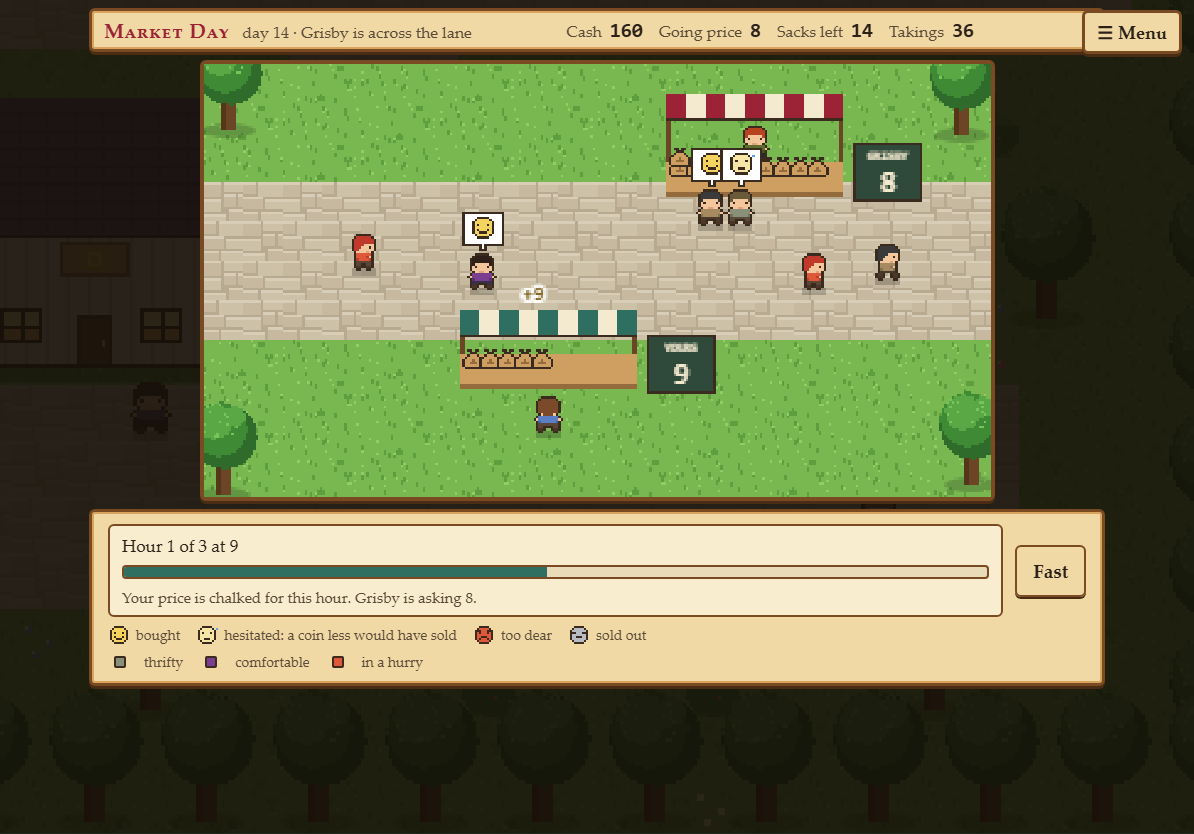
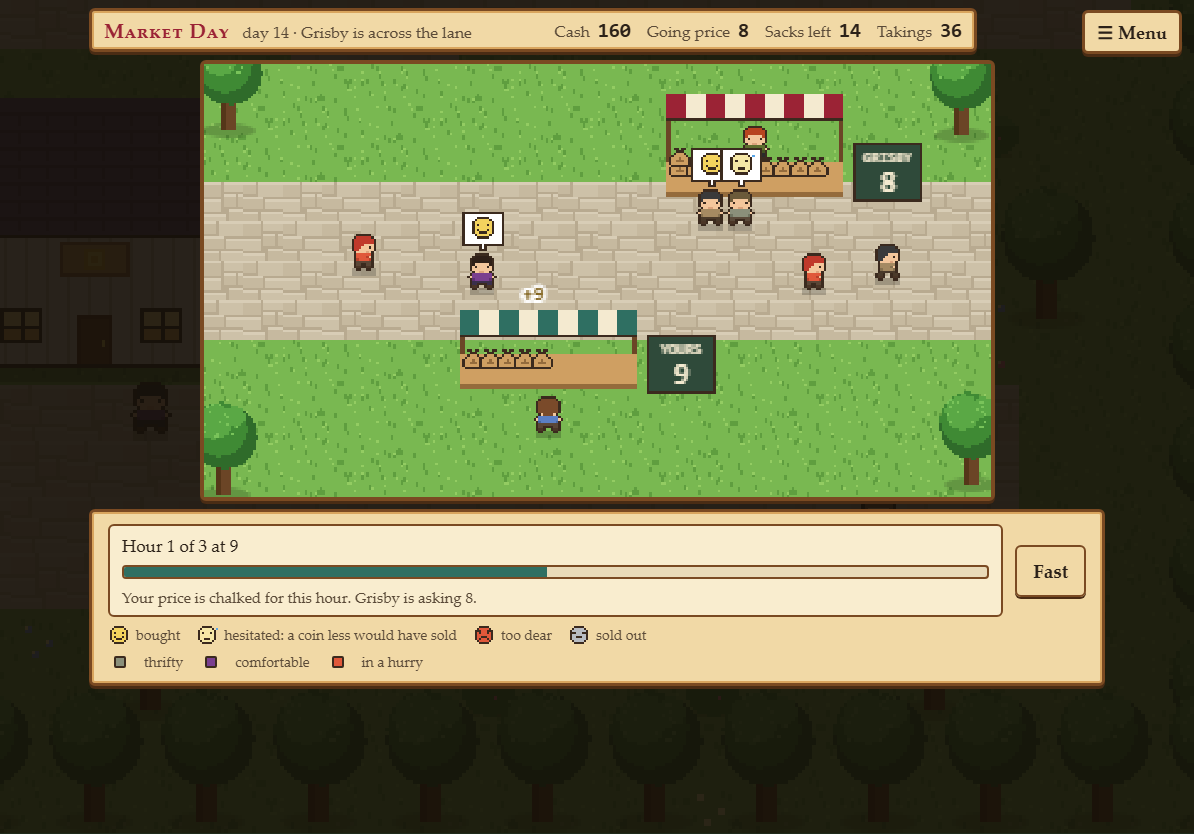
WS7 step 4: critic round 1 fixes (no replay after quit, honest baseline, Grisby wording, same-condition fit, earned transcript credit)

Changed region(s): [[0.4648, 0.0, 0.9296, 0.0935], [0.7127, 0.1559, 0.7747, 0.2182], [0.5578, 0.4053, 0.5888, 0.4365]]

diff --git a/market.js b/market.js
@@ -67,11 +67,14 @@
       ev.push(Object.assign({}, v, d));
     });
     const units = ev.reduce((a, e) => a + (e.to === "me" ? e.qty : 0), 0), lost = ev.filter(e => e.to === "grisby" && e.react === "bought").reduce((a, e) => a + e.qty, 0);
+    // 'stolen' = sales Grisby made to villagers who would have paid YOUR price (reserve >= yours): the ones he really cost you.
+    // The rest of 'toGrisby' bought from him only because he was cheaper than they would have paid you for, so you never had them.
+    const stolen = ev.filter(e => e.to === "grisby" && e.react === "bought" && e.reserve >= price).reduce((a, e) => a + Math.min(e.qty, 1 + (price <= e.reserve - 2 ? 1 : 0)), 0);
     const rec = { hour: f.hour, price, grisbyPrice: g, stockStart: stock0, units, revenue: units * price, gross: units * (price - f.cost), soldOutAt: ev.find(e => e.react === "soldout") ? ev.findIndex(e => e.react === "soldout") : -1,
-      toGrisby: lost, segSeen, segBought, events: ev, counts: ev.reduce((c, e) => (c[e.react] = (c[e.react] || 0) + 1, c), {}) };
+      toGrisby: lost, stolen, segSeen, segBought, events: ev, counts: ev.reduce((c, e) => (c[e.react] = (c[e.react] || 0) + 1, c), {}) };
     f.hours.push(rec); f.hour++; return rec;
   }
-  const totals = f => ({ units: f.hours.reduce((a, h) => a + h.units, 0), revenue: f.hours.reduce((a, h) => a + h.revenue, 0), gross: f.hours.reduce((a, h) => a + h.gross, 0), unsold: f.stock, toGrisby: f.hours.reduce((a, h) => a + h.toGrisby, 0) });
+  const totals = f => ({ units: f.hours.reduce((a, h) => a + h.units, 0), revenue: f.hours.reduce((a, h) => a + h.revenue, 0), gross: f.hours.reduce((a, h) => a + h.gross, 0), unsold: f.stock, toGrisby: f.hours.reduce((a, h) => a + h.toGrisby, 0), stolen: f.hours.reduce((a, h) => a + h.stolen, 0) });
   // What the afternoon would earn if you kept ONE price all afternoon (the model's own answer: used for Maud's bet and for the oracle in the tests)
   function flat(s, price, stock) { const f = newFair(s, { stock }); for (let h = 0; h < CFG.hours; h++) playHour(f, price); return totals(f); }
   function bestFlat(s, stock) { let best = null; for (let p = 1; p <= 20; p++) { const t = flat(s, p, stock); if (!best || t.gross > best.t.gross) best = { price: p, t }; } return best; }
@@ -84,12 +87,14 @@
     S.post(s, "cogs", `Cost of the ${h.units} sacks sold at the fair`, { cogs: c, inv: -c });
     s.sacks -= h.units; s.week.revenue += v; s.week.cogs += c; s.week.sacksSold += h.units;
   }
-  function commit(s, f) { // post every unposted hour, remember the fair (for the demand curve), and credit the transcript
+  // Post every unposted hour and (re)write the fair's record. The UI calls this after EVERY hour, so a fair is "had" from its first posted hour:
+  // quitting and reloading mid-afternoon cannot replay the same villagers for more takings (the saved game already has the sales and the record).
+  function commit(s, f) {
     f.hours.forEach(h => { if (!h.posted) { commitHour(s, f, h); h.posted = true; } });
-    const m = s.market || (s.market = { fairs: [], named: false, bets: 0, wins: 0 });
-    const t = totals(f); const rec = { day: f.day, market: f.market, grisby: f.grisby, stock0: f.stock0, units: t.units, revenue: t.revenue, gross: t.gross, toGrisby: t.toGrisby,
+    const m = s.market || (s.market = { fairs: [], named: false, bet: null });
+    const t = totals(f); const rec = { day: f.day, market: f.market, grisby: f.grisby, stock0: f.stock0, units: t.units, revenue: t.revenue, gross: t.gross, toGrisby: t.toGrisby, stolen: t.stolen,
       points: f.hours.map(h => ({ price: h.price, units: h.units, short: h.soldOutAt >= 0 })) };
-    if (!m.fairs.some(x => x.day === f.day)) m.fairs.push(rec);
+    const i = m.fairs.findIndex(x => x.day === f.day); if (i >= 0) m.fairs[i] = rec; else m.fairs.push(rec);
     return t;
   }
   const history = s => (s.market && s.market.fairs) || [];
@@ -221,7 +226,7 @@ if (typeof document !== "undefined") (function (root) {
     st = { phase: "setup", price: S.marketPrice(s.day), bring: Math.min(barn, Math.max(spare, Math.min(barn, 12)), 18), barn, committed, spare, f: null, rec: null, hourT: 0, fast: false, evs: null, bet: null, last: 0, cash0: s.bal.cash };
     document.body.classList.add("mk-open");
     const el = document.createElement("div"); el.id = "mkt"; el.innerHTML = `<div class="mk-card"><div class="mk-top" id="mk-top"></div><div class="mk-sceneBox" id="mk-sceneBox"><canvas id="mk-cv" width="${LW}" height="${LH}"></canvas></div><div class="mk-panel" id="mk-panel"></div></div>`;
-    $("wrap").appendChild(el); layout(); render(); loop.t = 0; requestAnimationFrame(loop);
+    $("wrap").appendChild(el); layout(); render(); loop.t = 0; if (!loop.on) { loop.on = true; requestAnimationFrame(loop); }
   }
   function close() {
     const el = root_(); if (el) el.remove(); document.body.classList.remove("mk-open"); st = null;
@@ -254,7 +259,7 @@ if (typeof document !== "undefined") (function (root) {
       p.innerHTML = `<div class="mk-row"><div class="mk-box"><h3>Sacks to bring</h3>${stepper("bring", st.bring, "sacks", "Sacks")}<div class="mk-note">${s.sacks} in the barn.${st.committed ? ` Open orders still need <b>${st.committed}</b>.` : ""}</div>${over ? `<div class="mk-note bad" id="mk-warn">That dips into sacks you promised to customers.</div>` : ""}</div>
         <div class="mk-box board"><h3>Chalk board: a sack of wheat</h3>${stepper("price", st.price, "coins", "Price")}<div class="mk-note" id="mk-margin">${marginLine(st.price)}</div></div></div>
         <div class="mk-row"><div class="mk-help">${s.market && s.market.fairs.length ? "" : `Eight villagers walk by each hour. You can change your price once an hour. Watch the faces.`}${M.grisbyIn(s.day) ? ` <b>Grisby</b> watches your board and sets his price after you.` : ""}</div>
-        <div class="mk-actions">${btn("mk-leave", "Not today", "alt")}${btn("mk-open", "Open the stall", "gold")}</div></div>${legend()}`;
+        <div class="mk-actions">${btn("mk-leave", "Not today", "alt")}${btn("mk-open", "Open the stall", "gold")}</div></div>`;
     } else if (st.phase === "bet") {
       const q = st.betQ; p.innerHTML = `<div class="mk-maud"><canvas id="mk-maud" width="16" height="16"></canvas><div><div class="mk-nm">Maud the reeve</div><div class="mk-say">Two coin says I know what one more coin on your board does. Say you chalk <b>${st.price + 1}</b> instead of <b>${st.price}</b> for the whole afternoon, with your ${st.bring} sacks${M.grisbyIn(s.day) ? " and Grisby watching" : ""}. Will your takings <b>rise</b>, <b>fall</b>, or <b>stay the same</b>?</div></div></div>
         <div class="mk-actions wide">${btn("mk-b-up", "Takings rise", "", 'data-bet="up"')}${btn("mk-b-down", "Takings fall", "", 'data-bet="down"')}${btn("mk-b-same", "Stay the same", "", 'data-bet="same"')}${btn("mk-b-no", "No bet", "alt", 'data-bet="no"')}</div>`;
@@ -263,9 +268,9 @@ if (typeof document !== "undefined") (function (root) {
       const r = st.f.hours[st.f.hours.length - 1], hnext = st.f.hour + 1, c = r.counts;
       const nudge = r.soldOutAt >= 0 ? `You ran out of sacks partway through the hour: the buyers after that walked away.` : (c.hesitated || 0) >= 2 ? `${c.hesitated} villagers hesitated. A coin less may have won them.` : (c.dear || 0) >= 4 ? `Most of the crowd called it too dear.` : (c.bought || 0) >= 7 ? `Nearly everyone bought. Was your price too low?` : "";
       p.innerHTML = `<div class="mk-row"><div class="mk-box"><h3>Hour ${r.hour + 1} of ${CFG().hours}: ${r.units} sacks at ${r.price}</h3><div class="mk-faces">${["bought", "hesitated", "dear", "soldout"].filter(k => c[k]).map(k => `<span>${iconHTML(k, 26)} <b>${c[k]}</b></span>`).join("")}</div>
-        <div class="mk-note">${r.grisbyPrice != null ? `Grisby held ${r.grisbyPrice}${r.toGrisby ? `; he took ${r.toGrisby} sacks of sales` : ""}. ` : ""}${nudge}</div></div>
+        <div class="mk-note">${r.grisbyPrice != null ? `Grisby asked ${r.grisbyPrice}${r.stolen ? `; ${r.stolen} sack${r.stolen === 1 ? "" : "s"} went to him that would have been yours` : r.price > st.f.market ? "; he didn't take anyone who'd have paid you" : ""}. ` : ""}${nudge}</div></div>
         <div class="mk-box board"><h3>Price for hour ${hnext}</h3>${stepper("price", st.price, "coins", "Price")}<div class="mk-note" id="mk-margin">${marginLine(st.price)}</div></div></div>
-        <div class="mk-row"><div class="mk-help">${M.grisbyIn(s.day) ? "Grisby will see your new price before the hour starts." : ""}</div><div class="mk-actions">${btn("mk-fast", st.fast ? "Fast: on" : "Fast", "alt")}${btn("mk-next", `Open hour ${hnext}`, "gold")}</div></div>${legend()}`;
+        <div class="mk-row"><div class="mk-help">${M.grisbyIn(s.day) ? "Grisby will see your new price before the hour starts." : ""}</div><div class="mk-actions">${btn("mk-fast", st.fast ? "Fast: on (tap to turn off)" : "Fast: off", "alt")}${btn("mk-next", `Open hour ${hnext}`, "gold")}</div></div>${legend()}`;
     } else if (st.phase === "walk") {
       p.innerHTML = `<div class="mk-row"><div class="mk-box"><h3>Hour ${st.f.hour} of ${CFG().hours} at ${st.rec.price}</h3><div class="mk-prog"><i id="mk-prog"></i></div><div class="mk-note">Your price is chalked for this hour. ${st.f.grisby ? `Grisby is asking ${st.rec.grisbyPrice}.` : ""}</div></div>
         <div class="mk-actions">${btn("mk-fast", "Fast", "alt")}</div></div>${legend()}`;
@@ -278,7 +283,7 @@ if (typeof document !== "undefined") (function (root) {
     p.querySelectorAll("[data-st]").forEach(b => b.onclick = () => { const k = b.dataset.st, d = k.endsWith("+") ? 1 : -1, w = k.slice(0, -1);
       if (w === "price") st.price = Math.max(1, Math.min(M.CFG.maxPrice, st.price + d)); else st.bring = Math.max(1, Math.min(G.s.sacks, st.bring + d)); upd(); });
     const on = (id, fn) => { const e = $(id); if (e) e.onclick = fn; };
-    on("mk-leave", close); on("mk-open", startAfternoon); on("mk-next", nextHour); on("mk-fast", () => { st.fast = true; if (st.phase === "walk") finishHour(); else render(); });
+    on("mk-leave", close); on("mk-open", startAfternoon); on("mk-next", nextHour); on("mk-fast", () => { if (st.phase === "walk") { st.fast = true; finishHour(); } else { st.fast = !st.fast; render(); } }); // in the pause, Fast toggles whether the next hours play instantly
     on("mk-done", close);
     p.querySelectorAll("[data-bet]").forEach(b => b.onclick = () => placeBet(b.dataset.bet));
   }
@@ -302,7 +307,7 @@ if (typeof document !== "undefined") (function (root) {
   function nextHour() { beginHour(); }
   function finishHour() { // the hour is over: its sales go on the books
     if (st.phase !== "walk") return; const s = G.s, rec = st.rec;
-    st.hourT = 1; G.act(() => { M.commitHour(s, st.f, rec); rec.posted = true; return { ok: true }; });
+    st.hourT = 1; G.act(() => { M.commit(s, st.f); return { ok: true }; }); // posts this hour and records the fair, so a reload can't replay it
     if (st.f.hour >= CFG().hours) { st.phase = "tally"; finishFair(); } else st.phase = "pause";
     render(); drawFrame(0);
   }
@@ -312,9 +317,9 @@ if (typeof document !== "undefined") (function (root) {
     st.tally = { t, newBest: prev.length > 0 && t.gross > best, firstFair: prev.length === 0 };
     const prices = new Set(f.hours.map(h => h.price)).size, bet = s.market.bet && s.market.bet.day === s.day ? s.market.bet : null;
     G.act(() => { // earn the ideas: seeing a demand curve, segments, and a rival
-      s.uses.push({ id: "segments", day: s.day, well: true });
-      if (prices >= 2) s.uses.push({ id: "demand", day: s.day, well: true });
-      if (f.grisby) s.uses.push({ id: "competitor", day: s.day, well: true });
+      // evidence of doing, not of showing up: only an actual experiment counts (a second price; a price above the going price, where Grisby answers)
+      if (prices >= 2) { s.uses.push({ id: "segments", day: s.day, well: true }); s.uses.push({ id: "demand", day: s.day, well: true }); }
+      if (f.grisby && f.hours.some(h => h.price > f.market)) s.uses.push({ id: "competitor", day: s.day, well: true });
       if (bet && bet.guess && bet.guess === bet.answer) { S.wagerWin(s, 2, "Maud's bet on your fair price"); if (root.Transcript) root.Transcript.master("demand", s.day); }
       return { ok: true }; });
     top();
@@ -322,18 +327,19 @@ if (typeof document !== "undefined") (function (root) {
 
   // ---------- the tally ----------
   function chartSVG(s, f) {
-    const past = M.history(s).filter(x => x.day !== f.day).flatMap(x => x.points.map(p => Object.assign({ old: true }, p)));
+    const past = M.history(s).filter(x => x.day !== f.day).flatMap(x => x.points.map(p => Object.assign({ old: true, grisby: x.grisby }, p)));
     const cur = f.hours.map((h, i) => ({ price: h.price, units: h.units, short: h.soldOutAt >= 0, n: i + 1, take: h.revenue })), all = past.concat(cur);
     let lo = Math.min(...all.map(p => p.price)) - 1, hi = Math.max(...all.map(p => p.price)) + 1; if (hi - lo < 4) { lo -= 1; hi += 1; } lo = Math.max(0, lo);
     const ymax = Math.max(10, Math.ceil((Math.max(...all.map(p => p.units)) + 1) / 2) * 2), W = 460, H = 270, L = 52, R = 16, Tp = 16, B = 44;
     const X = p => L + (p - lo) / (hi - lo) * (W - L - R), Y = u => H - B - u / ymax * (H - B - Tp);
     let g = ""; for (let p = Math.ceil(lo); p <= hi; p++) g += `<line x1="${X(p)}" x2="${X(p)}" y1="${Tp}" y2="${H - B}" class="gl"/><text x="${X(p)}" y="${H - B + 17}" class="tk" text-anchor="middle">${p}</text>`;
     for (let u = 0; u <= ymax; u += 2) g += `<line x1="${L}" x2="${W - R}" y1="${Y(u)}" y2="${Y(u)}" class="gl"/><text x="${L - 8}" y="${Y(u) + 4}" class="tk" text-anchor="end">${u}</text>`;
-    const fit = M.demandFit(all); let line = "";
-    if (fit && fit.slope < 0) { const x1 = lo + .3, x2 = hi - .3, y1 = Math.max(0, fit.icpt + fit.slope * x1), y2 = Math.max(0, fit.icpt + fit.slope * x2); line = `<line x1="${X(x1)}" y1="${Y(y1)}" x2="${X(x2)}" y2="${Y(y2)}" class="fit"/>`; }
+    // the line is fitted only through hours played under the same conditions as this fair (with or without Grisby), and drawn only across the prices you actually tried
+    const same = all.filter(p => !p.old || p.grisby === f.grisby), fit = M.demandFit(same), usable = same.filter(p => !p.short); let line = "";
+    if (fit && fit.slope < 0) { const x1 = Math.min(...usable.map(p => p.price)), x2 = Math.max(...usable.map(p => p.price)), cl = v => Math.max(0, Math.min(ymax, v)); line = `<line x1="${X(x1)}" y1="${Y(cl(fit.icpt + fit.slope * x1))}" x2="${X(x2)}" y2="${Y(cl(fit.icpt + fit.slope * x2))}" class="fit"/>`; }
     const stack = {}; // hours that landed on the same spot stack their labels instead of printing over each other
     const dots = all.map(p => { const key = p.price + "," + p.units, lvl = p.old ? 0 : (stack[key] = (stack[key] == null ? 0 : stack[key] + 1)), dx = lvl ? (lvl % 2 ? 1 : -1) * 22 * Math.ceil(lvl / 2) : 0; // a little sideways jitter so same-spot hours stay visible
-      return `<circle cx="${X(p.price) + dx}" cy="${Y(p.units)}" r="${p.old ? 6 : 9}" class="${p.old ? "old" : "cur"}${p.short ? " short" : ""}"/>` + (p.old ? "" : `<text x="${X(p.price) + dx}" y="${Y(p.units) - 14}" class="lb" text-anchor="middle">hour ${p.n}</text><text x="${X(p.price) + dx}" y="${Y(p.units) + 4}" class="in" text-anchor="middle">${p.n}</text>`); }).join("");
+      return `<circle cx="${X(p.price) + dx}" cy="${Y(p.units)}" r="${p.old ? 6 : 9}" class="${p.old ? "old" : "cur"}${p.short ? " short" : ""}"/>` + (p.old ? "" : `<text x="${X(p.price) + dx + 14}" y="${Y(p.units) + 4}" class="lb" text-anchor="start">hour ${p.n}</text><text x="${X(p.price) + dx}" y="${Y(p.units) + 4}" class="in" text-anchor="middle">${p.n}</text>`); }).join("");
     return `<svg viewBox="0 0 ${W} ${H}" class="mk-chart" role="img" aria-label="Price against sacks sold per hour">${g}${line}${dots}<text x="${(W + L) / 2}" y="${H - 6}" class="ax" text-anchor="middle">Price per sack (coins)</text><text transform="translate(14 ${(H - B) / 2 + Tp}) rotate(-90)" class="ax" text-anchor="middle">Sacks sold in the hour</text></svg>`;
   }
   function tally(p) {
@@ -346,10 +352,11 @@ if (typeof document !== "undefined") (function (root) {
     const nameLine = st.nameLine, betLine = bet && bet.guess ? `<div class="mk-maudline ${bet.guess === bet.answer ? "win" : "lose"}"><b>Maud's bet:</b> you said takings would <b>${bet.guess}</b>. At ${bet.price} all afternoon the model gives ${bet.now} takings; at ${bet.price + 1}, ${bet.then}. Takings ${bet.answer === "up" ? "rise" : bet.answer === "down" ? "fall" : "stay the same"}. ${bet.guess === bet.answer ? "You won: 2 coin back, and 2 more." : "You lose the 2 coin."}<br><i>A price rise wins when the sacks you lose are fewer than the extra coin on each sack that stays.</i></div>` : "";
     const seg = ["thrifty", "comfortable", "hurry"].filter(k => segSeen[k]).map(k => `<li><span class="sw ${k}"></span> ${M.SEG_NAMES[k]}: ${segBought[k] || 0} of ${segSeen[k]} bought</li>`).join("");
     const left = `<h2>The takings</h2><table class="mk-tab"><tr><th>Hour</th><th>Price</th><th>Sacks sold</th><th>Takings</th><th>Gross profit</th></tr>${rows}<tr class="tot"><td>Total</td><td></td><td class="num">${t.units}</td><td class="num">${t.revenue}</td><td class="num">${t.gross}</td></tr></table>
-      <div class="mk-note">Gross profit is what you keep after the sacks' cost (${cost} each). ${t.unsold ? `<b>${t.unsold} sacks unsold</b>: back to the barn.` : "<b>Sold out.</b>"} ${f.grisby ? `Grisby took ${t.toGrisby} sacks of sales from you.` : ""}</div>
+      <div class="mk-note">Gross profit is what you keep after the sacks' cost (${cost} each). ${t.unsold ? `<b>${t.unsold} sacks unsold</b>: back to the barn.` : "<b>Sold out.</b>"} ${f.grisby ? (t.stolen ? `Grisby took ${t.stolen} sack${t.stolen === 1 ? "" : "s"} from villagers who would have paid your price.` : t.toGrisby ? `Grisby sold ${t.toGrisby} sack${t.toGrisby === 1 ? "" : "s"}, but only to villagers your price had already lost.` : "Grisby sold nothing to your crowd.") : ""}</div>
       <ul class="mk-seg">${seg}</ul>${st.tally.newBest ? `<div class="mk-best">Your best fair yet: ${t.gross} gross profit.</div>` : st.tally.firstFair ? "" : `<div class="mk-note">Best earlier fair: ${Math.max(...past.map(x => x.gross))} gross profit.</div>`}`;
     p.innerHTML = `<div class="mk-tally"><div class="mk-tl">${left}</div><div class="mk-tr"><h2>Your demand curve</h2>${chartSVG(s, f)}<div class="mk-note">${past.length ? `Solid dots: this fair. Faded dots: earlier fairs.` : `Solid dots: this fair.`} A hollow dot is an hour you ran out of sacks, so it says nothing about demand.${fitNote()}</div></div></div>${nameLine}${betLine}<div class="mk-actions">${btn("mk-done", "Pack up the stall", "gold")}</div>`;
-    function fitNote() { const pts = M.history(s).flatMap(x => x.points); const fit = M.demandFit(pts); return fit && fit.slope < 0 ? ` The line is the fit through your hours: about ${(-fit.slope).toFixed(1)} fewer sacks for each coin more.` : ""; }
+    function fitNote() { const pts = M.history(s).filter(x => x.grisby === f.grisby).flatMap(x => x.points), fit = M.demandFit(pts);
+      return fit && fit.slope < 0 ? ` The dashed line runs through your hours ${f.grisby ? "with Grisby across the lane" : "without a rival"}: roughly ${(-fit.slope).toFixed(1)} fewer sacks an hour for each coin more. Eight villagers an hour is a small sample, so read it as a guide.` : ""; }
   }
 
   // ---------- drawing the afternoon ----------
@@ -368,7 +375,7 @@ if (typeof document !== "undefined") (function (root) {
       for (let i = 0; i < 9; i++) { ctx.fillStyle = i % 2 ? "#f4ead0" : awnCol(label); ctx.fillRect(cx - 36 + i * 8, awn, 8, 10); } ctx.fillStyle = "#3b2a1e"; ctx.fillRect(cx - 36, awn + 10, 72, 1);
       // the price board
       ctx.fillStyle = "#3b2a1e"; ctx.fillRect(cx + 40, counterY - 8, 28, 24); ctx.fillStyle = "#2f4a3a"; ctx.fillRect(cx + 41, counterY - 7, 26, 22);
-      ctx.fillStyle = "#f4ead0"; ctx.font = "bold 5px monospace"; ctx.textAlign = "center"; ctx.fillText(label, cx + 54, counterY - 1); ctx.font = "bold 12px monospace"; ctx.fillText(board == null ? "–" : String(board), cx + 54, counterY + 12); ctx.textAlign = "left";
+      ctx.fillStyle = "#f4ead0"; ctx.font = "bold 6px monospace"; ctx.textAlign = "center"; ctx.fillText(label, cx + 54, counterY); ctx.font = "bold 12px monospace"; ctx.fillText(board == null ? "–" : String(board), cx + 54, counterY + 12); ctx.textAlign = "left";
     };
     const awnCol = l => l === "GRISBY" ? "#9b2335" : "#2f6f62";
     // Grisby's stall (across the lane, from week 2), then yours; villagers walk the lane between them
@@ -395,7 +402,7 @@ if (typeof document !== "undefined") (function (root) {
     const pg = $("mk-prog"); if (pg && st.phase === "walk") pg.style.width = Math.round(st.hourT * 100) + "%";
   }
   function loop(ts) {
-    if (!st) return; const dt = Math.min(.05, (ts - (loop.t || ts)) / 1000); loop.t = ts;
+    if (!st) { loop.on = false; return; } const dt = Math.min(.05, (ts - (loop.t || ts)) / 1000); loop.t = ts; // one loop at a time (reopening within a frame can't start a second)
     if (st.phase === "walk" && !st.hold) { st.hourT += dt / HOUR_S; if (st.hourT >= 1 || st.fast) finishHour(); }
     st && (st.time = (st.time || 0) + dt, drawFrame(st.time), liveStats());
     requestAnimationFrame(loop);

diff --git a/market.css b/market.css
@@ -3,7 +3,7 @@
 #mkt{position:absolute;inset:0;z-index:70;background:rgba(20,14,8,.9);overflow:auto;display:flex;justify-content:center;align-items:flex-start;padding:var(--sp2) 0;font-family:var(--font-body);color:var(--ink)}
 body.mk-open #hud,body.mk-open #bar,body.mk-open #bark,body.mk-open #hint{visibility:hidden}
 .mk-card{width:min(1040px,100%);display:flex;flex-direction:column;align-items:center;gap:var(--sp2);padding:0 var(--sp3)}
-.mk-top{width:100%;display:flex;justify-content:space-between;align-items:center;flex-wrap:wrap;gap:var(--sp2);padding:var(--sp1) var(--sp3);padding-right:128px;background:var(--panel);border:3px solid var(--panel-edge);border-radius:var(--radius);box-shadow:inset 0 0 0 2px #d9a55e,var(--shadow);min-height:var(--tap)}
+.mk-top{width:calc(100% - 128px);align-self:flex-start;display:flex;justify-content:space-between;align-items:center;flex-wrap:wrap;gap:var(--sp2);padding:var(--sp1) var(--sp3);background:var(--panel);border:3px solid var(--panel-edge);border-radius:var(--radius);box-shadow:inset 0 0 0 2px #d9a55e,var(--shadow);min-height:var(--tap)}
 .mk-title{font-size:20px}.mk-title b{color:var(--red);font-variant:small-caps;letter-spacing:.04em;margin-right:var(--sp2)}.mk-title span{color:var(--muted);font-size:16px}
 .mk-stats{display:flex;gap:var(--sp4);font-size:16px;color:var(--muted)}.mk-stats b{font:bold 20px var(--font-num);color:var(--ink);margin-left:4px}
 .mk-sceneBox{border:4px solid var(--panel-edge);border-radius:var(--radius);box-shadow:var(--shadow);background:#79b851;line-height:0}
@@ -41,13 +41,13 @@ body.mk-open #hud,body.mk-open #bar,body.mk-open #bark,body.mk-open #hint{visibi
 .mk-seg{list-style:none;padding:0;margin:var(--sp2) 0;font-size:16px}.mk-seg li{padding:2px 0}
 .mk-best{display:inline-block;margin-top:var(--sp2);padding:4px var(--sp3);background:var(--gold);color:#1a1208;font-weight:bold;border-radius:var(--radius)}
 .mk-chart{width:100%;height:auto;background:#fffaf0;border:2px solid var(--panel-edge);border-radius:var(--radius)}
-.mk-chart .gl{stroke:#e2d3ae;stroke-width:1}.mk-chart .tk{font:11px var(--font-num);fill:#5a4a38}.mk-chart .ax{font:bold 12px var(--font-body);fill:#3b2a1e}
+.mk-chart .gl{stroke:#e2d3ae;stroke-width:1}.mk-chart .tk{font:13px var(--font-num);fill:#5a4a38}.mk-chart .ax{font:bold 14px var(--font-body);fill:#3b2a1e}
 .mk-chart .fit{stroke:#9b2335;stroke-width:2.5;stroke-dasharray:6 4}
 .mk-chart circle.cur{fill:#2f6f62;stroke:#1a1208;stroke-width:2}.mk-chart circle.old{fill:#9a8a6a;opacity:.45}.mk-chart circle.short{fill:#fffaf0;stroke:#2f6f62;stroke-width:3}
-.mk-chart text.lb{font:bold 11px var(--font-body);fill:#2f6f62}.mk-chart text.in{font:bold 11px var(--font-num);fill:#fff}
+.mk-chart text.lb{font:bold 13px var(--font-body);fill:#2f6f62}.mk-chart text.in{font:bold 12px var(--font-num);fill:#fff}
 .mk-maudline{border-left:4px solid #ffcf3a;background:#fff5cf;padding:var(--sp2) var(--sp3);font-size:17px;line-height:1.4}.mk-maudline.win{border-color:var(--green)}.mk-maudline.lose{border-color:var(--red)}
 .mk-goal{margin-top:var(--sp1);display:flex;align-items:center;gap:var(--sp2);flex-wrap:wrap;font:bold 16px var(--font-body)}.mk-goal .k{display:inline!important;color:var(--red)}
 .mk-goal .btn{margin:0;min-height:var(--tap);font-size:16px}
 body.touch .mk-btn{min-height:52px;font-size:19px}
 body.touch .mk-btn.sq{width:64px;height:64px}
-@media (max-width:900px){.mk-stats{gap:var(--sp3);font-size:14px}.mk-top{padding-right:112px}.mk-val b{font-size:32px}}
+@media (max-width:900px){.mk-stats{gap:var(--sp3);font-size:14px}.mk-top{width:calc(100% - 112px)}.mk-val b{font-size:32px}}

diff --git a/tests/market-day.html b/tests/market-day.html
@@ -41,15 +41,20 @@ function load(q, w, h) { return new Promise(res => { const f = document.createEl
     G.interactTile(38, 19); await sleep(60); P(`tapping the stall again today: Maud says it is done: ${/had your fair today/.test(d.getElementById("dlg").textContent)}`); G.closeDlg();
     // day 14: Grisby and Maud's bet
     s.day = 14; G.hud(); await sleep(30); const j0 = s.journal.length; M.open(); await sleep(40);
-    const st2 = M.debug.st; click("mk-open"); await sleep(40);
+    const st2 = M.debug.st; d.querySelector('[data-st="price+"]').click(); click("mk-open"); await sleep(40);
     P(`day 14: Maud's bet is offered: ${st2.phase === "bet"} with ${d.querySelectorAll("#mkt [data-bet]").length} choices; buttons >= 44px: ${JSON.stringify(small())}`);
     const ans = M.betAnswer(s, st2.price, st2.bring).answer, c14 = s.bal.cash; d.querySelector(`[data-bet="${ans}"]`).click(); await sleep(40);
     P(`bet placed on the model's answer "${ans}": stake 2 posted (Cash ${c14} -> ${s.bal.cash}); Grisby's stall on screen: ${st2.f.grisby}`);
     click("mk-fast"); await sleep(30); while (st2.phase !== "tally") { click("mk-next"); await sleep(30); }
-    P(`tally with the bet: ${/Maud's bet/.test(d.getElementById("mkt").textContent)}, won: ${/You won/.test(d.getElementById("mkt").textContent)}; Grisby line: ${/Grisby took|Grisby held/.test(d.getElementById("mkt").textContent)}; transcript competitor ${w.Transcript.state("competitor")}`);
+    P(`tally with the bet: ${/Maud's bet/.test(d.getElementById("mkt").textContent)}, won: ${/You won/.test(d.getElementById("mkt").textContent)}; Grisby line: ${/Grisby (took|sold)/.test(d.getElementById("mkt").textContent)}; transcript competitor ${w.Transcript.state("competitor")}`);
     const bs2 = S.balanceSheet(s.bal); P(`books after day 14 still tie: ${bs2.assets === bs2.liab + bs2.equity}, cash-flow reconciles ${w.Books.close(s).cf.reconciles}; journal +${s.journal.length - j0} postings, all balanced: ${s.journal.slice(j0).every(e => Object.values(e.lines).reduce((a, v) => a + v, 0) === 0)}`);
     click("mk-done"); await sleep(30);
     P(`two fairs remembered: ${s.market.fairs.length === 2}; chart now has the earlier fair's dots too (see screenshot); JS errors: ${JSON.stringify(errs)}`);
+    // quitting mid-afternoon must not let the same fair be played again (the first posted hour records the fair; the save keeps it)
+    s.day = 21; G.hud(); const sacks21 = s.sacks; M.open(); await sleep(30); const st3 = M.debug.st; click("mk-open"); await sleep(30); click("mk-fast"); await sleep(30);
+    const fairsMid = s.market.fairs.some(x => x.day === 21), cashMid = s.bal.cash; M.close(); await sleep(30);
+    P(`day 21: after ONE hour the fair is already recorded (${fairsMid}) and a quit-and-reload cannot replay it: stall available again ${M.available(s)} (want false); hour 1 sales stayed on the books (barn ${sacks21} -> ${s.sacks})`);
+    const saved = JSON.parse(JSON.stringify(s)); P(`a saved copy still carries the fair: ${saved.market.fairs.some(x => x.day === 21)}; transcript competitor only for a price above the going price: ${w.Transcript.state("competitor")} (day 14 raised it)`); void st3; void cashMid;
     f.remove();
   }
   } catch (e) { out.push("EXCEPTION " + e.message + " " + e.stack); }

diff --git a/tests/test-market-day.js b/tests/test-market-day.js
@@ -50,6 +50,9 @@ ok([7, 14, 21].every(d => M.isDay(d, {})) && !M.isDay(8, {}) && M.isDay(28, {}) 
   ok(M.decide(co, 10, 9, 5).to === "me" && M.decide(hu, 10, 9, 5).to === "me", "comfortable and hurried villagers don't comparison-shop: they stay with you");
   const s = game(14, 30), f = M.newFair(s), h = M.playHour(f, 10); ok(h.grisbyPrice === 9 && h.toGrisby >= 0, "the hour record carries Grisby's price after seeing yours");
   const noRival = M.flat(game(7, 60), 9, 60), rival = M.flat(game(14, 60), 9, 60); ok(rival.toGrisby > 0, `at 9 (1 over the going price) Grisby takes thrifty sales from you (${rival.toGrisby} sacks)`); ok(noRival.toGrisby === 0, "with no rival nothing goes to Grisby");
+  ok(rival.stolen > 0 && rival.stolen <= rival.toGrisby, `'stolen' counts only villagers who'd have paid your price (${rival.stolen} of ${rival.toGrisby} sacks he sold)`);
+  { const w = M.flat(game(7, 60), 9, 60), g = M.flat(game(14, 60), 9, 60); ok(g.revenue < w.revenue, `at 9 with 60 sacks Grisby costs you real takings (${g.revenue} vs ${w.revenue} with no rival)`);
+    const hi = M.flat(game(14, 60), 11, 60), hi0 = M.flat(game(7, 60), 11, 60); ok(hi.revenue === hi0.revenue, "at 11 nobody thrifty would have paid you anyway, so he costs you nothing: a higher price escapes him"); }
   const at = p => M.flat(game(14, 60), p, 60).toGrisby; ok(at(8) === 0 && at(6) === 0, "at or under the going price Grisby holds and takes nothing (ties stay with you)"); }
 
 // ---- Maud's bet is computed from the same model ----
@@ -86,6 +89,10 @@ for (const stock of [12, 18, 24]) {
   ok(ni(smart) > ni(fixed), `season Net income is higher with the smart pricer (${ni(smart)} vs ${ni(fixed)}; the fairs' extra gross profit is ${smart.gross - fixed.gross}, the rest is the bot borrowing less)`);
   ok(smart.s.outcome === "closed" && fixed.s.outcome === "closed", "the careful farmer still closes the season with fairs in it (verdict unchanged)");
   const b = S.balanceSheet(smart.s.bal); ok(b.assets === b.liab + b.equity && B.close(smart.s).cf.reconciles, "the season's statements tie out with four fairs in it");
+  // the honest baseline: the best constant price a player could have found by hindsight (same price every hour of every fair)
+  let bestFixed = null; for (let p = 5; p <= 12; p++) { const r = season(() => M.bots.fixed(p), 18); if (!bestFixed || r.gross > bestFixed.gross) bestFixed = { p, gross: r.gross }; }
+  console.log(`     best constant price in hindsight: ${bestFixed.p} -> ${bestFixed.gross}; smart ${smart.gross} (${((smart.gross / bestFixed.gross - 1) * 100).toFixed(1)}% more)`);
+  ok(smart.gross >= bestFixed.gross * 1.05, "the smart pricer also beats the BEST constant price by at least 5% (changing the price between hours pays, not just 'charge more')");
   const bestFlat18 = [7, 14, 21, 28].map(d => M.bestFlat((() => { const s = game(d, 18); return s; })(), 18).t.gross).reduce((a, x) => a + x, 0);
   console.log(`     oracle (best single price per fair, 18 sacks): ${bestFlat18}; smart ${smart.gross}; fixed-8 ${fixed.gross}`); }
 

diff --git a/TEST-RESULTS-WS7.md b/TEST-RESULTS-WS7.md
@@ -28,6 +28,14 @@ Key lines from `node tests/test-market-day.js` (every check ok, final line "ALL 
   Gate in the test: >= +15% at 12 and 18 sacks (passes). At 24 sacks the gain falls under 15% (reported, not gated): with plentiful stock the going price is already close to best, which is the lesson. Oracle (best single price per fair, 18 sacks) is 360, so the hour-by-hour pricer beats the best flat price (385) too.
 - season Net income: 1750 (smart) vs 1653 (fixed); careful still closes the season with four fairs in it; careful closes and overtrader is insolvent with no fairs played (verdicts unchanged); statements tie out across all four fairs.
 
+## Critic round 1 and what changed (all fixed or answered)
+- Quit-and-reload mid-fair replayed the same villagers for extra takings: now every hour posts AND upserts the fair's record (`Market.commit` after each hour), so the stall is "had" from the first posted hour. Headless test: after one hour the fair is recorded, `available()` is false, the saved copy carries it.
+- "Smart beats fixed-8" was weak: added the honest baseline, the best constant price in hindsight (9 -> 360 gross); smart 385 is 6.9% above it, gated at >= 5%.
+- Chart mixed fairs with and without Grisby: the fit now uses only hours played under the same conditions, is drawn only across the prices tried, and the note says eight villagers an hour is a small sample.
+- Grisby overstated: the tally and between-hours text now count only sales to villagers who would have paid YOUR price (`stolen`). New tests: at 9 with 60 sacks he costs real takings (189 vs 207 with no rival); at 11 he costs nothing. He still matters little at the going price by the spec's own rule (see limits).
+- Transcript credit now needs an actual experiment (a second price; a price above the going price where Grisby answers), not just attending.
+- Also: Fast toggles off in the pause; one animation loop only; legend not shown on set-up; board labels 6px; chart text larger; header clears the Menu button; chart labels moved beside the dots.
+
 ## Headless Chrome (`--virtual-time-budget`)
 `tests/market-day.html` (desktop mouse 1280x800 and iPad touch 1194x834), plays a fair end to end through the real UI. Results identical on both:
 - ribbon shows "To the stall" only on fair days (44px desktop, 46px touch); set-up steppers work; all buttons >= 44px on set-up, between-hours, bet and tally screens
